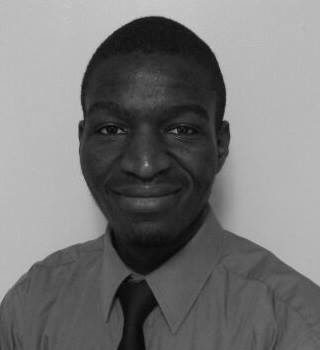
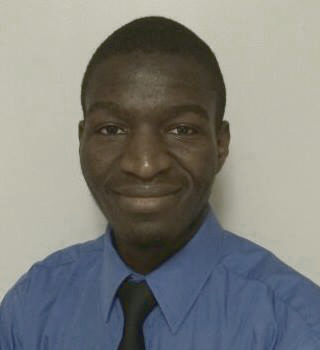
Added portfolio section

diff --git a/styles.css b/styles.css
@@ -33,6 +33,12 @@ nav div {
        margin: 0 auto;
        box-sizing: border-box;
     }
+    .section-box {
+        padding: 0% 1%;
+        border-width: 0px 2px;
+        border-color: rgba(0, 0, 0, 0.376);
+        border-style: solid;
+    }
     nav div{
         padding-left: 0px;
         padding-right: 0px;
@@ -99,12 +105,8 @@ nav div {
 }
 
 a, a:hover {
-  text-decoration: none;
-  color: #ffffff;
-}
-
-.section-box {
-    padding: 1%;
+  text-decoration: none !important;
+  color: #ffffff !important;
 }
 
 #avatar {
@@ -126,8 +128,11 @@ a, a:hover {
 }
 
 #portfolio-section {
-    background-color: green;
-    height: 100%;
+    min-height: 100%;
+  background-image: url('img/lost_cat.jpg');
+  background-attachment: fixed;
+  background-size: cover;
+  padding-bottom: 3%;
 }
 
 #about-section {
@@ -139,8 +144,30 @@ a, a:hover {
     min-height: 100%;
 }
 
+.separator {
+  width: 50%;
+  height: 5px;
+  background-color: #444444;
+  margin-top: 1%;
+  margin-bottom: 2%;
+  opacity: 0.8;
+  border-radius: 50%;
+  margin-left: auto;
+  margin-right: auto;
+}
+
+.section-title {
+  font-size: 1.4em;
+  text-align: center;
+  font-weight: bold;
+  color: #ffffff;
+    margin: 0% -1%;
+  text-align: center;
+  padding: 1%;
+  background-color: rgba(0, 0, 0, 0.576);
+}
+
 #social-icons {
-  
   position: relative;
   color: #000000;
   list-style: none;
@@ -163,4 +190,17 @@ a, a:hover {
 #contact-section {
     background-color: teal;
     height: 100%;
+}
+
+figure {
+  background-color: rgba(0, 0, 0, 0.676);
+  border-width: 9px;
+  border-color: rgba(0, 0, 0, 0.176);
+  border-style: solid;
+  box-sizing: border-box;
+}
+
+figcaption {
+  padding: 3px;
+  text-align: right;
 }

diff --git a/index.php b/index.php
@@ -3,90 +3,141 @@
 <head>
 <meta charset="utf-8">
 <title>Insert title here</title>
-<link href="styles.css?d=<?php echo time();?>" rel="stylesheet"
-	type="text/css" />
-<link href='https://fonts.googleapis.com/css?family=Abel'
-	rel='stylesheet' type='text/css'>
-
+<link href='https://fonts.googleapis.com/css?family=Abel' rel='stylesheet'
+    type='text/css'>
 <link rel="stylesheet"
-	href="https://maxcdn.bootstrapcdn.com/font-awesome/4.5.0/css/font-awesome.min.css">
+    href="https://maxcdn.bootstrapcdn.com/bootstrap/3.3.6/css/bootstrap.min.css"
+    integrity="sha384-1q8mTJOASx8j1Au+a5WDVnPi2lkFfwwEAa8hDDdjZlpLegxhjVME1fgjWPGmkzs7"
+    crossorigin="anonymous">
+<link href="styles.css?d=<?php echo time();?>" rel="stylesheet" type="text/css" />
+<link rel="stylesheet"
+    href="https://maxcdn.bootstrapcdn.com/font-awesome/4.5.0/css/font-awesome.min.css">
 </head>
 <body>
-
-	<nav id="top-nav">
-		<div>
-			<h3 id="site-heading">
-				<a href="#about-section" class="local-link">Joseph</a>
-			</h3>
-			<ul id="social" class="nav-list">
-				<li><a
-					href="https://www.linkedin.com/in/joseph-unworried-25531442?trk=nav_responsive_tab_profile"
-					target="_blank" title="LinkedIn"><i class="fa fa-linkedin"></i></a></li>
-				<li><a href="https://github.com/josephx86" target="_blank"
-					title="GitHub"><i class="fa fa-github"></i></a></li>
-				<li><a href="http://fancyridez.tumblr.com/" target="_blank"
-					title="Tumblr"><i class="fa fa-tumblr"></i></a></li>
-				<li id="hamburger-item"><a href="#" title="Menu" id="hamburger-link"><i
-						class="fa fa-bars"></i></a></li>
-			</ul>
-			<ul id="menu" class="nav-list">
-				<li><a href="#about-section" class="local-link">About</a></li>
-				<li><a href="#portfolio-section" class="local-link">Portfolio</a></li>
-				<li><a href="#contact-section" class="local-link">Contact</a></li>
-			</ul>
-		</div>
-	</nav>
-
-	<ul id="vertical-menu" class="vertical-menu-list">
-		<li><a href="#about-section" class="local-link">About</a></li>
-		<li><a href="#portfolio-section" class="local-link">Portfolio</a></li>
-		<li><a href="#contact-section" class="local-link">Contact</a></li>
-	</ul>
-
-	<div id="content">
-
-		<section id="top-of-page"></section>
-
-		<div id="about-section" class="section-box">
-			<img id="avatar"
-				src="https://scontent-dfw1-1.xx.fbcdn.net/hphotos-xaf1/v/t1.0-9/945577_642333795781634_371620598_n.jpg?oh=1a038a6cd79fd5693c37f25d5ac878d9&oe=577BDB44"
-				alt="avatar" />
-			<div id="about-text">
-				<p>My name is Joseph and I love computer programming.</p>
-				<br />
-				<p>
-					As a Software Developer, I enjoy formulating algorithms from user
-					requirements and transforming them into computer programs for
-					desktop, web, and mobile platforms. I love open source software and
-					technologies, <a href="https://getfedora.org/" target="_blank">Fedora</a>
-					being my favorite.
-				</p>
-			</div>
-
-			<ul id="social-icons">
-				<li><a
-					href="https://www.linkedin.com/in/joseph-unworried-25531442?trk=nav_responsive_tab_profile"
-					target="_blank" title="LinkedIn"><i
-						class="fa fa-linkedin-square fa-3x"></i></a></li>
-				<li><a href="https://github.com/josephx86" target="_blank"
-					title="GitHub"><i class="fa fa-github-square fa-3x"></i></a></li>
-				<li><a href="http://fancyridez.tumblr.com/" target="_blank"
-					title="Tumblr"><i class="fa fa-tumblr-square fa-3x"></i></a></li>
-			</ul>
-		</div>
-
-		<section id="portfolio-section" class="section-box">
-			<p>Portfolio</p>
-		</section>
-
-		<section id="contact-section" class="section-box">
-			<p>Contact</p>
-		</section>
-
-		<script src="https://code.jquery.com/jquery-1.12.3.min.js"
-			type="text/javascript"></script>
-		<script src="script.js" type="text/javascript"></script>
-	</div>
-
+    <nav id="top-nav">
+        <div>
+            <h3 id="site-heading">
+                <a href="#about-section" class="local-link">Joseph</a>
+            </h3>
+            <ul id="social" class="nav-list">
+                <li><a
+                    href="https://www.linkedin.com/in/joseph-unworried-25531442?trk=nav_responsive_tab_profile"
+                    target="_blank" title="LinkedIn"><i class="fa fa-linkedin"></i></a></li>
+                <li><a href="https://github.com/josephx86" target="_blank"
+                    title="GitHub"><i class="fa fa-github"></i></a></li>
+                <li><a href="http://fancyridez.tumblr.com/" target="_blank"
+                    title="Tumblr"><i class="fa fa-tumblr"></i></a></li>
+                <li id="hamburger-item"><a href="#" title="Menu"
+                    id="hamburger-link"><i class="fa fa-bars"></i></a></li>
+            </ul>
+            <ul id="menu" class="nav-list">
+                <li><a href="#about-section" class="local-link">About</a></li>
+                <li><a href="#portfolio-section" class="local-link">Portfolio</a></li>
+                <li><a href="#contact-section" class="local-link">Contact</a></li>
+            </ul>
+        </div>
+    </nav>
+    <ul id="vertical-menu" class="vertical-menu-list">
+        <li><a href="#about-section" class="local-link">About</a></li>
+        <li><a href="#portfolio-section" class="local-link">Portfolio</a></li>
+        <li><a href="#contact-section" class="local-link">Contact</a></li>
+    </ul>
+    <div id="content">
+        <section id="top-of-page"></section>
+        <div id="about-section" class="section-box">
+            <img id="avatar"
+                src="https://raw.githubusercontent.com/josephx86/freecodecamp-personal-portfolio-webpage/master/img/avatar_monochrome.jpg"
+                alt="avatar" />
+            <div id="about-text">
+                <p>My name is Joseph and I love computer programming.</p>
+                <br />
+                <p>
+                    As a Software Developer, I enjoy formulating algorithms from
+                    user requirements and transforming them into computer
+                    programs for desktop, web, and mobile platforms. I love open
+                    source software and technologies, <a
+                        href="https://getfedora.org/" target="_blank">Fedora</a>
+                    being my favorite.
+                </p>
+            </div>
+            <ul id="social-icons">
+                <li><a
+                    href="https://www.linkedin.com/in/joseph-unworried-25531442?trk=nav_responsive_tab_profile"
+                    target="_blank" title="LinkedIn"><i
+                        class="fa fa-linkedin-square fa-3x"></i></a></li>
+                <li><a href="https://github.com/josephx86" target="_blank"
+                    title="GitHub"><i class="fa fa-github-square fa-3x"></i></a></li>
+                <li><a href="http://fancyridez.tumblr.com/" target="_blank"
+                    title="Tumblr"><i class="fa fa-tumblr-square fa-3x"></i></a></li>
+            </ul>
+        </div>
+        <section id="portfolio-section" class="section-box">
+            <p class="section-title">Portfolio</p>
+            <div class="separator"></div>
+            <div class="row">
+                <div class="col-xs-6">
+                    <figure>
+                        <a href="http://www.tornadodome.com" target="_blank"> <img
+                            class="img-responsive" alt="Tornado Dome"
+                            src="img/tornado.png">
+                        </a>
+                        <figcaption>
+                            <a href="http://www.tornadodome.com" target="_blank">
+                                <span>Tornado Dome</span> <br /> <small>tornadodome.com
+                            </small>
+                            </a>
+                        </figcaption>
+                    </figure>
+                </div>
+                <div class="col-xs-6">
+                    <figure>
+                        <a href="http://www.backyardscienceimprint.com/"
+                            target="_blank"> <img class="img-responsive"
+                            alt="Houdini and the Magic Molt"
+                            src="img/houdini.png"></a>
+                        <figcaption>
+                            <a href="http://www.backyardscienceimprint.com/"
+                                target="_blank"><span>Houdini and the Magic Molt</span><br />
+                                <small>backyardscienceimprint.com</small></a>
+                        </figcaption>
+                    </figure>
+                </div>
+            </div>
+            <br />
+            <div class="row">
+                <div class="col-xs-6">
+                    <figure>
+                        <a href="http://www.pixispace.com" target="_blank"> <img
+                            class="img-responsive" alt="Pixispace"
+                            src="img/pixispace.jpg">
+                        </a>
+                        <figcaption>
+                            <a href="http://www.pixispace.com" target="_blank">
+                                <span>Pixispace</span> <br /> <small>pixispace.com
+                            </small>
+                            </a>
+                        </figcaption>
+                    </figure>
+                </div>
+                <div class="col-xs-6">
+                    <figure>
+                        <a href="http://codepen.io/josephx86/full/XdaGpm/"
+                            target="_blank"> <img class="img-responsive"
+                            alt="Houdini and the Magic Molt" src="img/diana.jpg"></a>
+                        <figcaption>
+                            <a href="http://codepen.io/josephx86/full/XdaGpm/"
+                                target="_blank"><span>Diana</span><br /> <small>codepen.io/josephx86/full/XdaGpm</small></a>
+                        </figcaption>
+                    </figure>
+                </div>
+            </div>
+        </section>
+        <section id="contact-section" class="section-box">
+            <p>Contact</p>
+        </section>
+        <script src="https://code.jquery.com/jquery-1.12.3.min.js"
+            type="text/javascript"></script>
+        <script src="script.js" type="text/javascript"></script>
+    </div>
 </body>
 </html>
